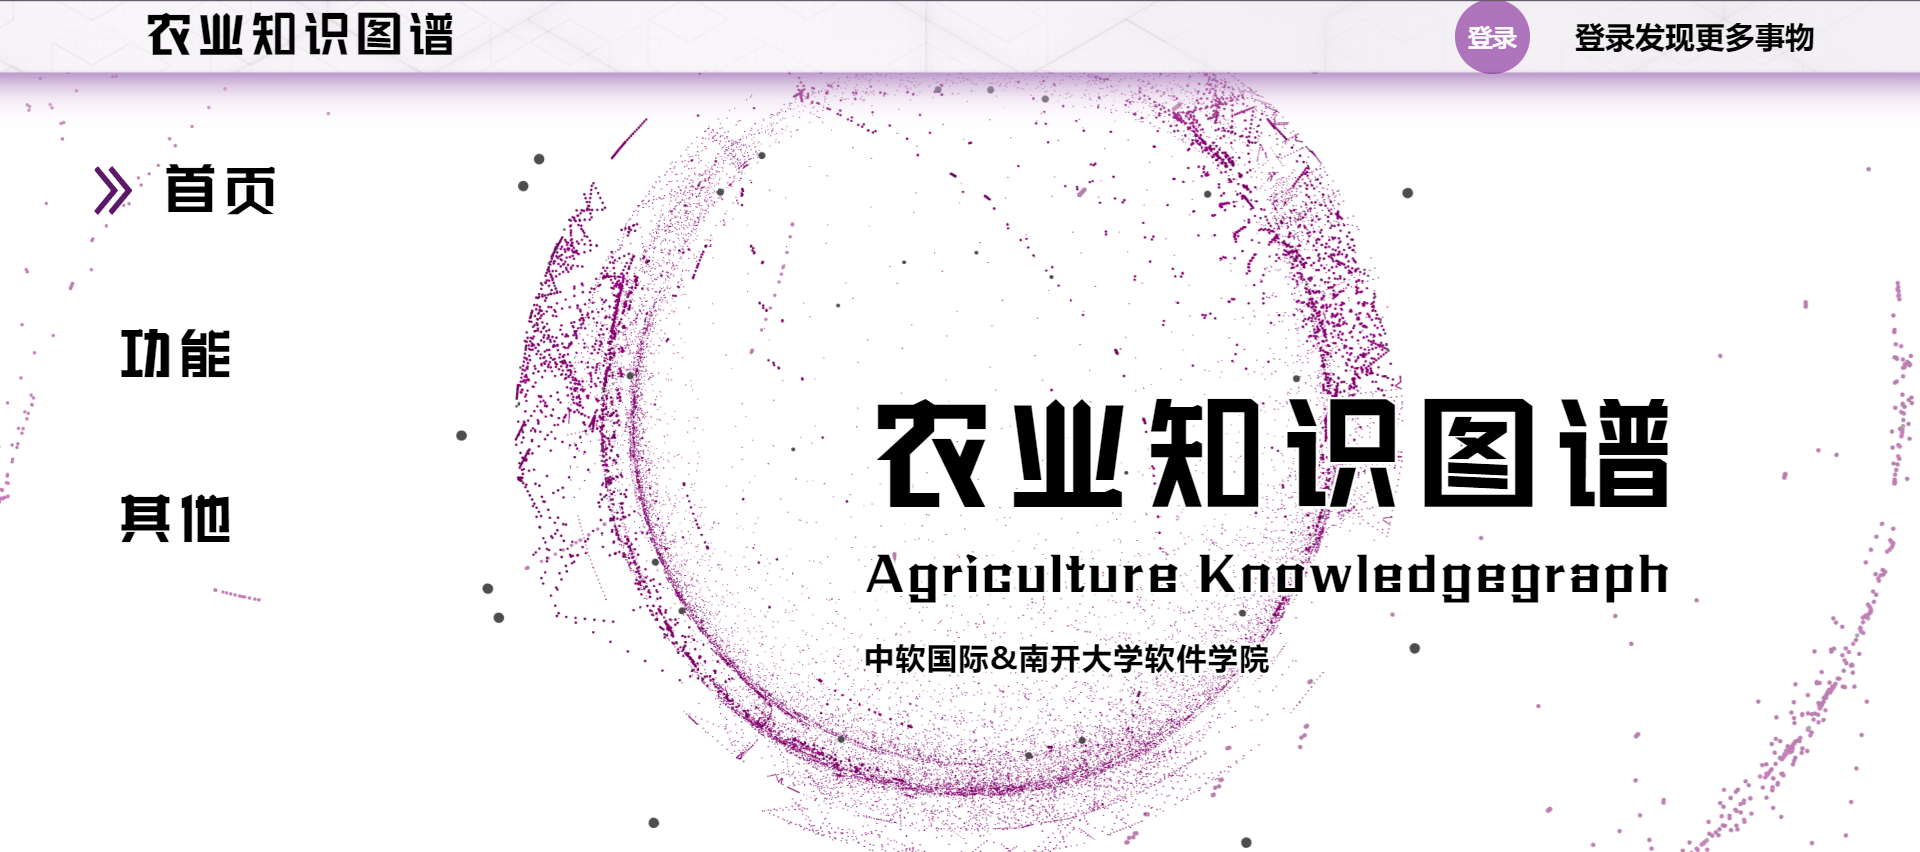
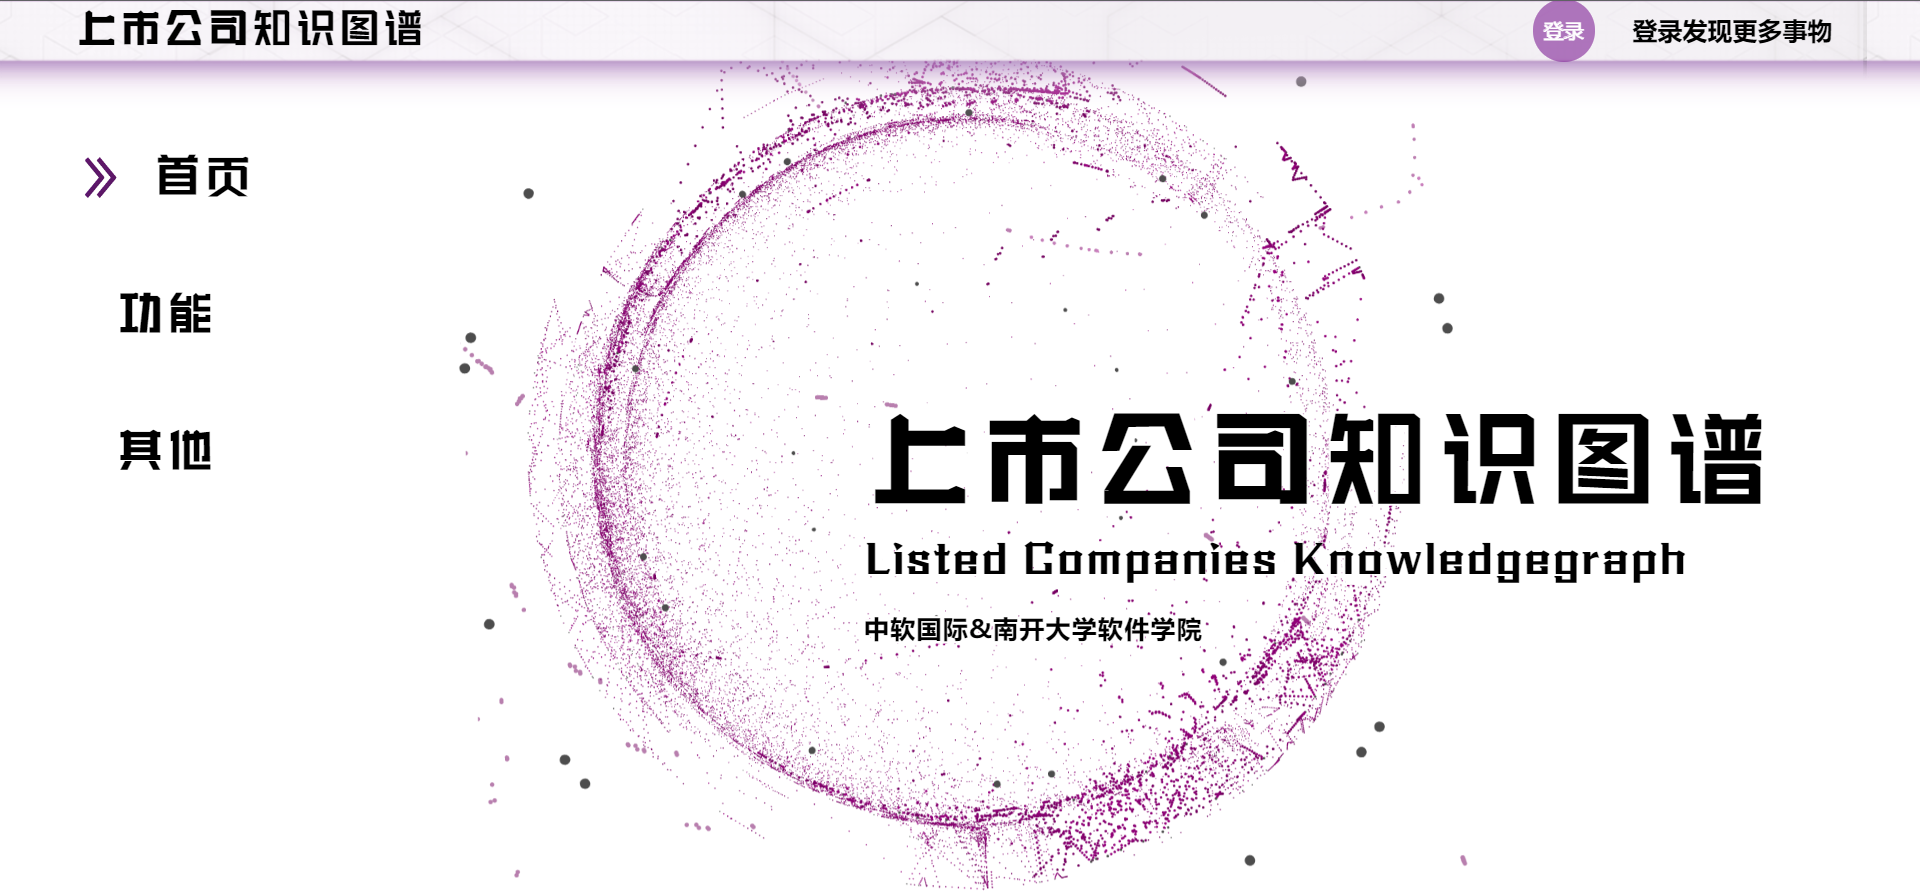
update

diff --git a/src/components/mainWord/mainWord.vue b/src/components/mainWord/mainWord.vue
@@ -1,7 +1,7 @@
 <template>
     <div class="background_word">
-        <div class="background_word2 word_border" data-text="农业知识图谱">农业知识图谱</div>
-        <div class="background_word3 word_border" data-text="Agriculture Knowledgegraph">Agriculture Knowledgegraph</div>
+        <div class="background_word2 word_border" data-text="农业知识图谱">上市公司知识图谱</div>
+        <div class="background_word3 word_border" data-text="Agriculture Knowledgegraph">Listed Companies Knowledgegraph</div>
         <div class="background_word1 word_border" :data-text="$t('views.main_page.main_word.from')">{{ $t("views.main_page.main_word.from") }}</div>
         <img src="./img/arrow.png" class="arrow" />
     </div>
@@ -17,7 +17,7 @@ export default {
 <style scoped>
 .background_word {
     user-select: none !important;
-    width: 700px; /* 调整导航栏的宽度 */
+    width: 800px; /* 调整导航栏的宽度 */
     position: fixed; /* 设置为固定定位 */
     top: 45%; /* 距离顶部的距离 */
     left: 45%; /* 距离左侧的距离 */
@@ -28,7 +28,7 @@ export default {
 }
 .arrow {
     position: absolute;
-    right: 10%;
+    right: 5%;
     top: 35%;
     width: 80px;
     height: 80px;

diff --git a/src/components/navBar/navBar.vue b/src/components/navBar/navBar.vue
@@ -4,7 +4,7 @@
         <div class="nav_bar_img">
             <div class="nav_bar_container">
                 <!-- 网站名字   头像+昵称 -->
-                <div class="nav_bar_title">农业知识图谱</div>
+                <div class="nav_bar_title">上市公司知识图谱</div>
                 <div class="nav_bar_content">
                     <navLogin style="pointer-events: all;" @click="avatarClick"></navLogin>
                 </div>

diff --git a/documents/neo4j数据库设计.md b/documents/neo4j数据库设计.md
@@ -60,3 +60,4 @@
     ]
 }
 ```
+
